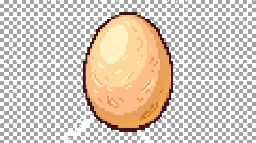
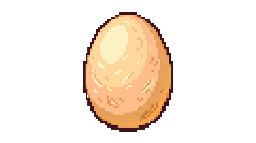
文案：卯→孵／圖鑑蛋；雷水晶訓練圖分檔重畫；雞蛋與貓餵食去灰底；版號 0.2.10
Made-with: Cursor

diff --git a/src/main.ts b/src/main.ts
@@ -178,7 +178,7 @@ const UI = {
   dexPoseTrain: "\u8a13\u7df4",
   dexPoseRest: "\u4f11\u606f",
   dexPoseClean: "\u6e05\u6f54",
-  dexEgg: "\u536f",
+  dexEgg: "\u86cb",
   dexBackMemorial: "\u56de\u5230\u7d00\u5ff5\u9801",
   dexBlurbVolt:
     "\u5f9e\u96f7\u7d0b\u86cb\u7834\u6bbc\u5f8c\u70ba\u96f7\u7cfb\u5947\u7378\u3002",
@@ -193,7 +193,7 @@ const UI = {
   backToPet: "\u56de\u5230\u6211\u7684\u5925\u4f34",
   restartAdopt: "\u91cd\u65b0\u8a8d\u990a",
   confirmRestartAdopt:
-    "\u78ba\u5b9a\u8981\u91cd\u65b0\u8a8d\u990a\uff1f\u73fe\u6709\u990a\u6210\u9032\u5ea6\u6703\u5168\u90e8\u6e05\u9664\u4e14\u7121\u6cd5\u9084\u539f\u3002\u65b0\u5925\u4f34\u53ef\u80fd\u662f\u8c93\u3001\u96de\u3001\u72d7\uff0c\u6216\u5f9e\u86cb\u536f\u5316\u7684\u5947\u7378\u3002",
+    "\u78ba\u5b9a\u8981\u91cd\u65b0\u8a8d\u990a\uff1f\u73fe\u6709\u990a\u6210\u9032\u5ea6\u6703\u5168\u90e8\u6e05\u9664\u4e14\u7121\u6cd5\u9084\u539f\u3002\u65b0\u5925\u4f34\u53ef\u80fd\u662f\u8c93\u3001\u96de\u3001\u72d7\uff0c\u6216\u5f9e\u86cb\u5b75\u5316\u7684\u5947\u7378\u3002",
   statHunger: "\u98fd\u98df",
   statHappy: "\u5fc3\u60c5",
   statClean: "\u6e05\u6f54",
@@ -218,9 +218,9 @@ const UI = {
   deadPetBattleBlocked:
     "\u5925\u4f34\u5df2\u96e2\u958b\uff0c\u7121\u6cd5\u9023\u7dda\u5c0d\u6230\u3002\u8acb\u5148\u5728\u7d00\u5ff5\u9801\u9762\u8fce\u63a5\u65b0\u751f\u547d\u3002",
   eggBattleBlocked:
-    "\u9084\u5728\u86cb\u88e1\uff0c\u7b49\u536f\u5316\u5f8c\u518d\u9023\u7dda\u5c0d\u6230\u5427\u3002",
+    "\u9084\u5728\u86cb\u88e1\uff0c\u7b49\u5b75\u5316\u5f8c\u518d\u9023\u7dda\u5c0d\u6230\u5427\u3002",
   eggTrainBlocked:
-    "\u9084\u6c92\u536f\u5316\uff0c\u5148\u5225\u8a13\u7df4\u56c9\u3002",
+    "\u9084\u6c92\u5b75\u5316\uff0c\u5148\u5225\u8a13\u7df4\u56c9\u3002",
   justHatched: "\u7834\u6bbc\u4e86\uff01\u4f86\u6253\u500b\u62db\u547c\u5427\uff5e",
   careTooFast:
     "\u5148\u7a0d\u5f85\u4e00\u4e0b\u518d\u7167\u9867\u5427\uff08\u52d5\u4f5c\u592a\u5feb\u56c9\uff09\u3002",

diff --git a/src/pet.ts b/src/pet.ts
@@ -169,6 +169,8 @@ export function carePoseFile(species: PetSpecies, pose: CarePose): string {
           : "clean";
   if (species === "cat") return `cat-${suf}.png`;
   if (species === "chicken") return `chicken-${suf}.png`;
+  if (species === "volt" && pose === "train") return "pet-train-volt.png";
+  if (species === "crystal" && pose === "train") return "pet-train-crystal.png";
   return `pet-${suf}.png`;
 }
 
@@ -307,7 +309,7 @@ export function careIdleSpriteFile(p: PetState): string {
 }
 
 export function growthLabelForPet(p: PetState): string {
-  if (p.alive && !p.hatched) return "\u536f\u5316\u4e2d";
+  if (p.alive && !p.hatched) return "\u5b75\u5316\u4e2d";
   return growthLabel(growthStage(p.virtAge));
 }
 

diff --git a/AGENTS.md b/AGENTS.md
@@ -110,7 +110,7 @@ npm run start:api   # SERVE_STATIC=0：只跑 API（給 Pages + 分離後端）
 - **畫面與對戰流程**：`src/main.ts`（體積大，可用搜尋 `renderCare`、`renderBattle`、`ensureSocket`）。
 - **對戰平衡與房間生命週期**：`server/index.js`。
 - **樣式**：`src/style.css`。
-- **新精靈／圖示**：遵守 `.cursor/rules/pocket-pet-assets.mdc`；idle 見 `idleSpriteForSpeciesStage`（`src/pet.ts`）；照護姿勢檔名見 **`carePoseFile`**（`src/pet.ts`），由 `src/main.ts` 呼叫。**圖鑑**（`renderSpeciesDex`）除成長階段外另列四種照護姿勢示意（`DEX_POSE_STAGE`、狗用 `initDexDogCanvases` 的 `data-dex-pose`）。
+- **新精靈／圖示**：遵守 `.cursor/rules/pocket-pet-assets.mdc`；idle 見 `idleSpriteForSpeciesStage`（`src/pet.ts`）；照護姿勢檔名見 **`carePoseFile`**（`src/pet.ts`），由 `src/main.ts` 呼叫；雷系訓練 **`pet-train-volt.png`**、水晶系訓練 **`pet-train-crystal.png`**（其餘共用 `pet-*.png`／貓雞各檔）。**圖鑑**（`renderSpeciesDex`）除成長階段外另列四種照護姿勢示意（`DEX_POSE_STAGE`、狗用 `initDexDogCanvases` 的 `data-dex-pose`）。
 
 ## 慣例與注意
 

diff --git a/docs/GAME_RULES.md b/docs/GAME_RULES.md
@@ -57,7 +57,7 @@
   2. **守護（guardian）**：`careQualityEma` ≥ **62**、累積生病虛擬日 ≤ **3.5**、虛擬日齡 ≥ **12**。
   3. **韌性（survivor）**：累積生病虛擬日 ≥ **5**、且 `careQualityEma` ≥ **32**。
   4. **均衡（harmony）**：虛擬日齡 ≥ **13**、且 `careQualityEma` ≥ **44**。
-- **美術**：首版沿用原 idle／姿勢圖，僅以 UI 字樣與養成畫面外圈色調區分；日後可替換形態專屬精靈圖。
+- **美術**：首版沿用原 idle／姿勢圖，僅以 UI 字樣與養成畫面外圈色調區分；日後可替換形態專屬精靈圖。雷系／水晶系**訓練**姿勢分別使用 `public/pets/pet-train-volt.png`、`pet-train-crystal.png`（與各自 idle 外觀一致）；其餘照護檔名見 `carePoseFile`（`src/pet.ts`）。
 
 ---
 
